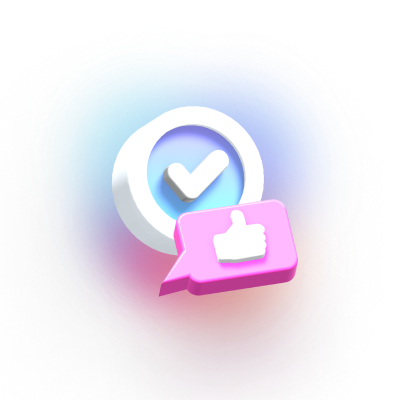
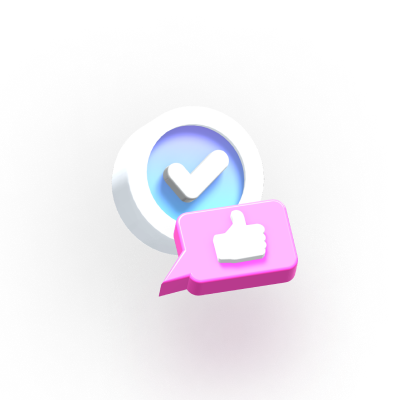
feat: add animation

Changed region(s): [[0.18, 0.21, 0.78, 0.84]]

diff --git a/webpack-typescript/src/global.scss b/webpack-typescript/src/global.scss
@@ -8,23 +8,49 @@ body {
     flex-direction: column;
     justify-content: center;
     background-color: rgb(19, 18, 21);
-    img {
-        max-width: 100%;
+    div:nth-last-child(1){
+        margin-top: 110px;
     }
     div{
+        position: relative;
         display: inherit;
         align-items: inherit;
         flex-direction: inherit;
         font-family: inherit;
         justify-content: inherit;
         font-size: inherit;
+        img{
+            position: absolute;
+            -webkit-user-drag: none;
+            user-select: none;
+        }
         div{
             margin: 4px;
         }
         div:nth-last-child(1) {
             margin-top: 20px;
             font-size: 14px;
-            background-color: rgb(102, 28, 248);
+            background-color: #661cf8;
         }
     }
 }
+
+@-webkit-keyframes rotating /* Safari and Chrome */ {
+    from {
+      transform: rotate(0deg);
+    }
+    to {
+      transform: rotate(360deg);
+    }
+  }
+  @keyframes rotating {
+    from {
+      transform: rotate(0deg);
+    }
+    to {
+      transform: rotate(360deg);
+    }
+  }
+  .rotating {
+    animation: rotating 3s linear infinite;
+  }

diff --git a/webpack-typescript/src/index.ts b/webpack-typescript/src/index.ts
@@ -1,14 +1,25 @@
 import func from './module/index';
 import './assets/img/rs_school.svg';
 import image from './assets/img/image.png';
+import background from './assets/img/background.png';
 import './global.scss';
 
 let body: HTMLElement = document.querySelector('body')!;
 let img: HTMLImageElement = document.createElement('img');
+let bg: HTMLImageElement = document.createElement('img');
 let info: HTMLElement = document.createElement('div');
+let logo: HTMLElement = document.createElement('div');
+
+bg.src = background;
+bg.classList.add('rotating');
+bg.height = 400;
 
 img.src = image;
+
+logo.append(bg);
+logo.append(img);
+
 info.innerHTML = `<div>${func()}</div><div>SCSS compiler works!</div><div>Webpack version 8.4.0</div>`;
 
-body.append(img);
+body.append(logo);
 body.append(info);
